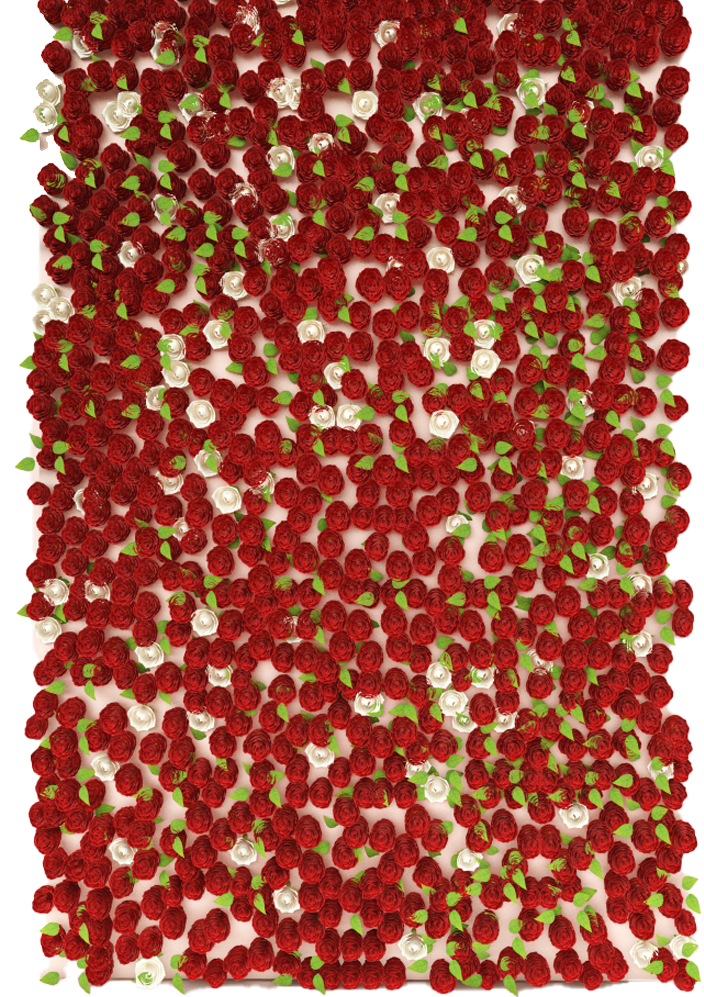
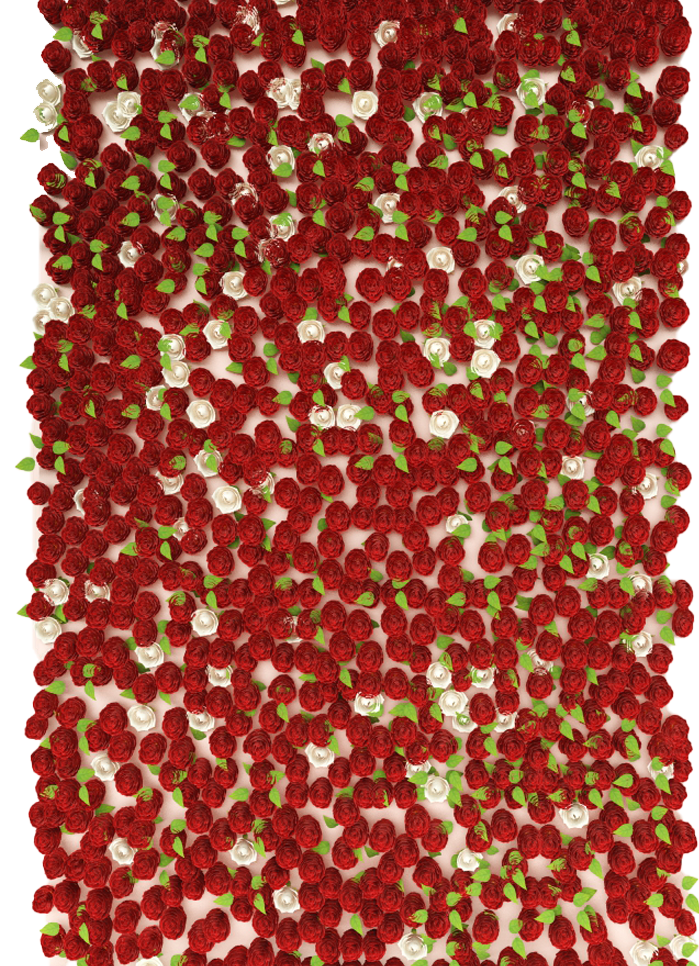
drop shadows

diff --git a/src/sections/products.js b/src/sections/products.js
@@ -35,18 +35,18 @@ const Products = ({ data }) => {
             <Carousel data={data.rowTwo} />
             <Carousel data={data.rowThree} />
           </Box>
-          <Box sx={styles.bottomShelf}>
-            <Image src={flowerHolder} sx={styles.leftFlowers} alt="shelf" />
-            <Box sx={styles.shelfWrapper}>
-              <Image
-                sx={styles.shelfWrapper.shelf}
-                src={bottomShelf}
-                alt="shelf"
-              />
-            </Box>
-            <Image src={flowerHolder} sx={styles.rightFlowers} alt="shelf" />
-          </Box>
         </Container>
+        <Box sx={styles.bottomShelf}>
+          <Image src={flowerHolder} sx={styles.leftFlowers} alt="shelf" />
+          <Box sx={styles.shelfWrapper}>
+            <Image
+              sx={styles.shelfWrapper.shelf}
+              src={bottomShelf}
+              alt="shelf"
+            />
+          </Box>
+          <Image src={flowerHolder} sx={styles.rightFlowers} alt="shelf" />
+        </Box>
         <Box sx={styles.floor}></Box>
       </Container>
     </Box>
@@ -104,7 +104,9 @@ const styles = {
     backgroundSize: ["contain", "contain", "cover"],
     backgroundRepeat: ["repeat", "repeat", "no-repeat"],
     p: 0,
-    boxShadow: "0 0 15px 5px #e53030",
+    // boxShadow: "0 0 15px 5px #e53030",
+    filter: "drop-shadow(0px 26px 14px #ec6868)",
+    height: "150%",
   },
   logo: {
     img: {
@@ -131,6 +133,7 @@ const styles = {
   },
   bottomShelf: {
     mt: "20px",
+    zIndex: "4",
   },
   shelfWrapper: {
     height: ["120px", " 167px !important", "auto"],
@@ -174,7 +177,7 @@ const styles = {
   floor: {
     position: " absolute",
     bottom: [" -220px", " -220px", " -284px"],
-    zIndex: " -1",
+    zIndex: " 2",
     width: " 100vw",
     height: [" 250px", " 250px", " 311px"],
     backgroundColor: " white",

diff --git a/src/components/carousels/products.js b/src/components/carousels/products.js
@@ -128,7 +128,7 @@ const styles = {
       width: "50% !important",
       height: "50% !important",
       mx: "auto !important",
-      ml: "15px",
+      ml: "15px !important",
     },
   },
   shelfWrapper: {
